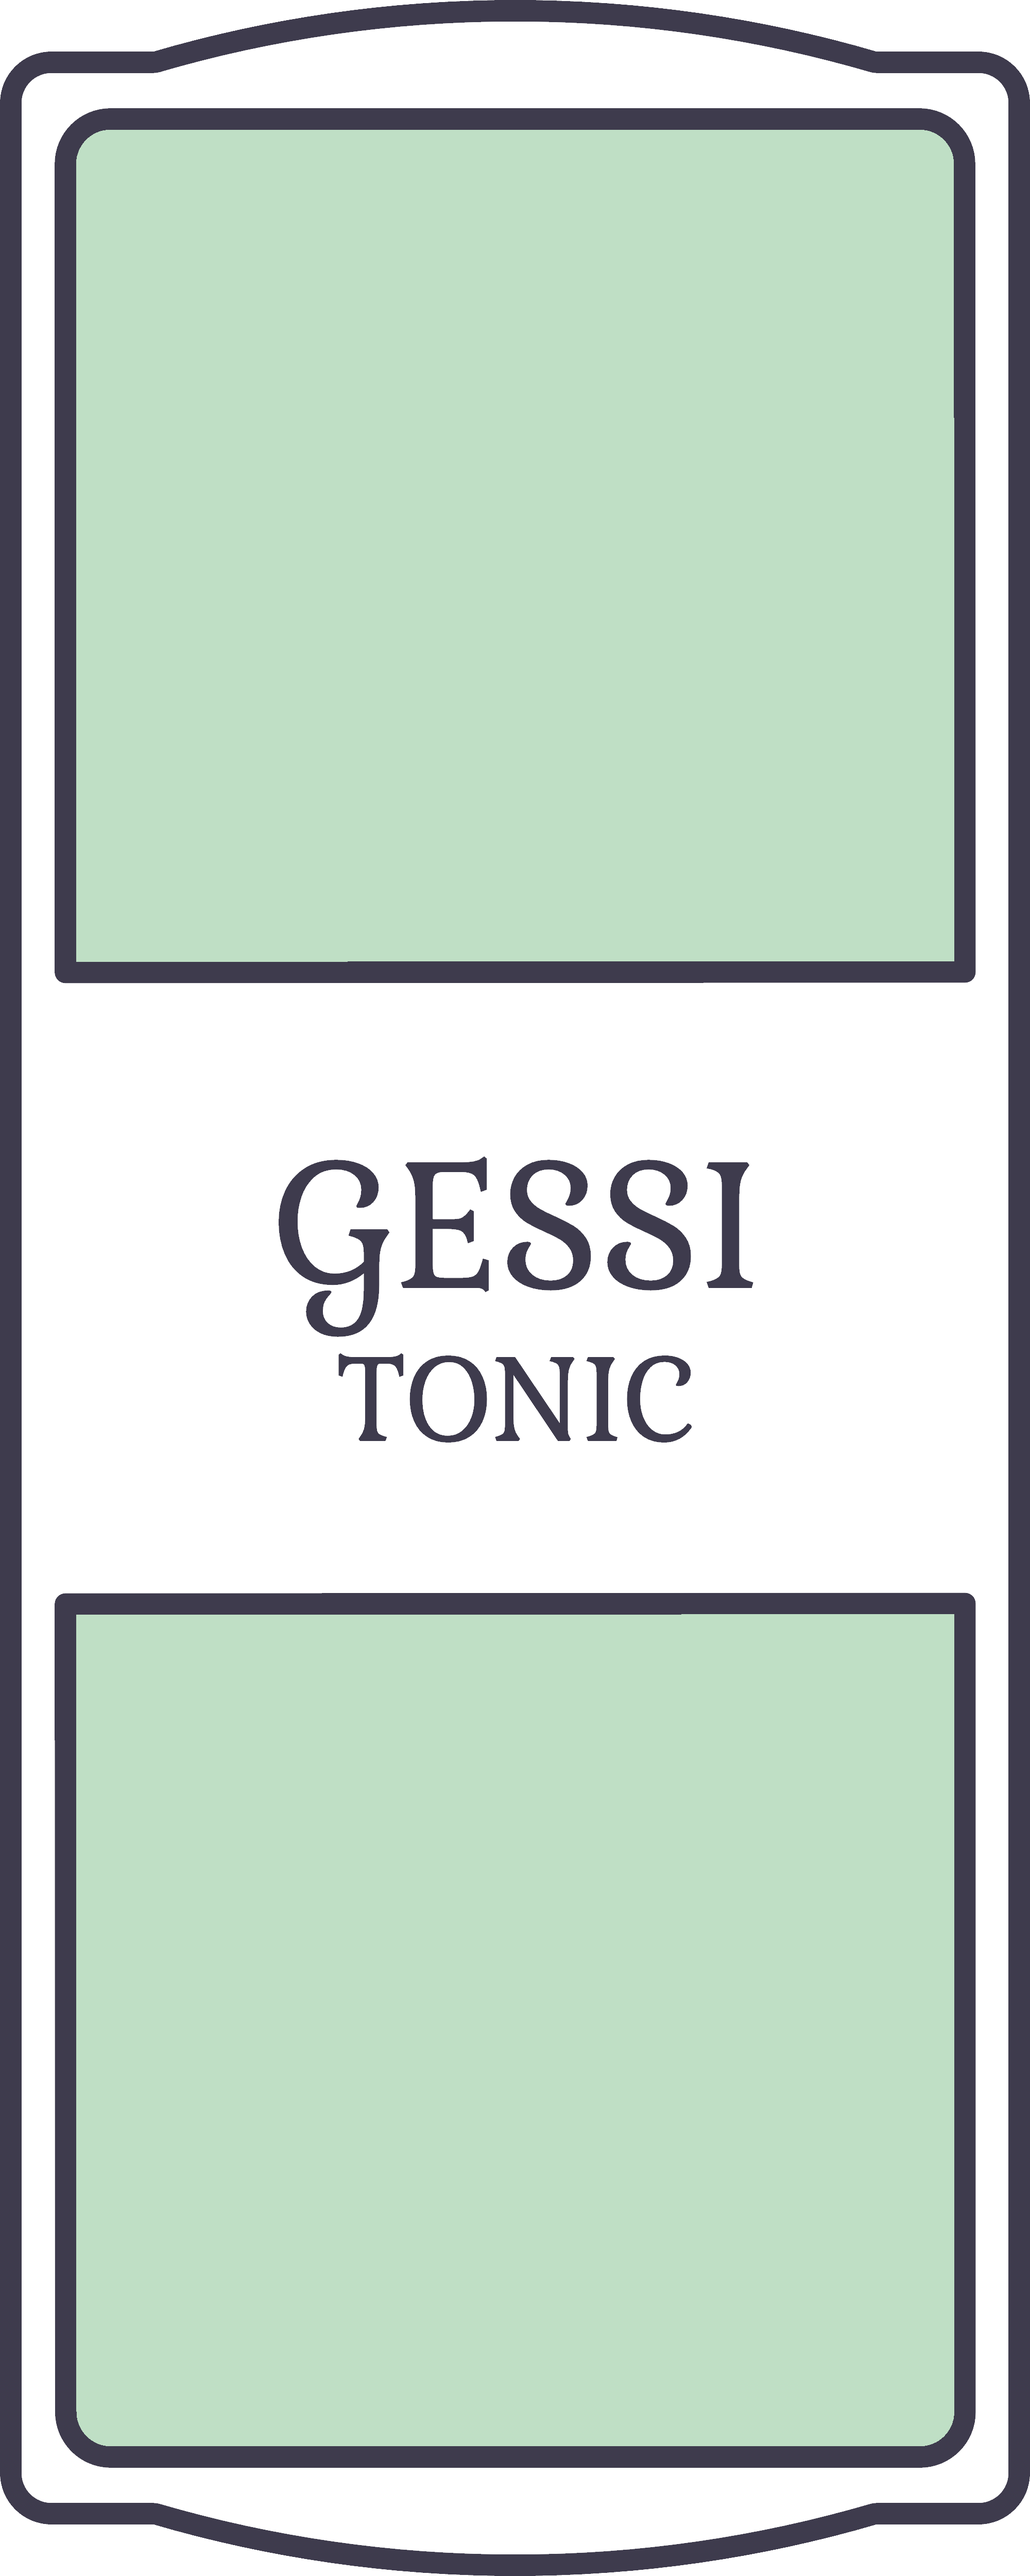
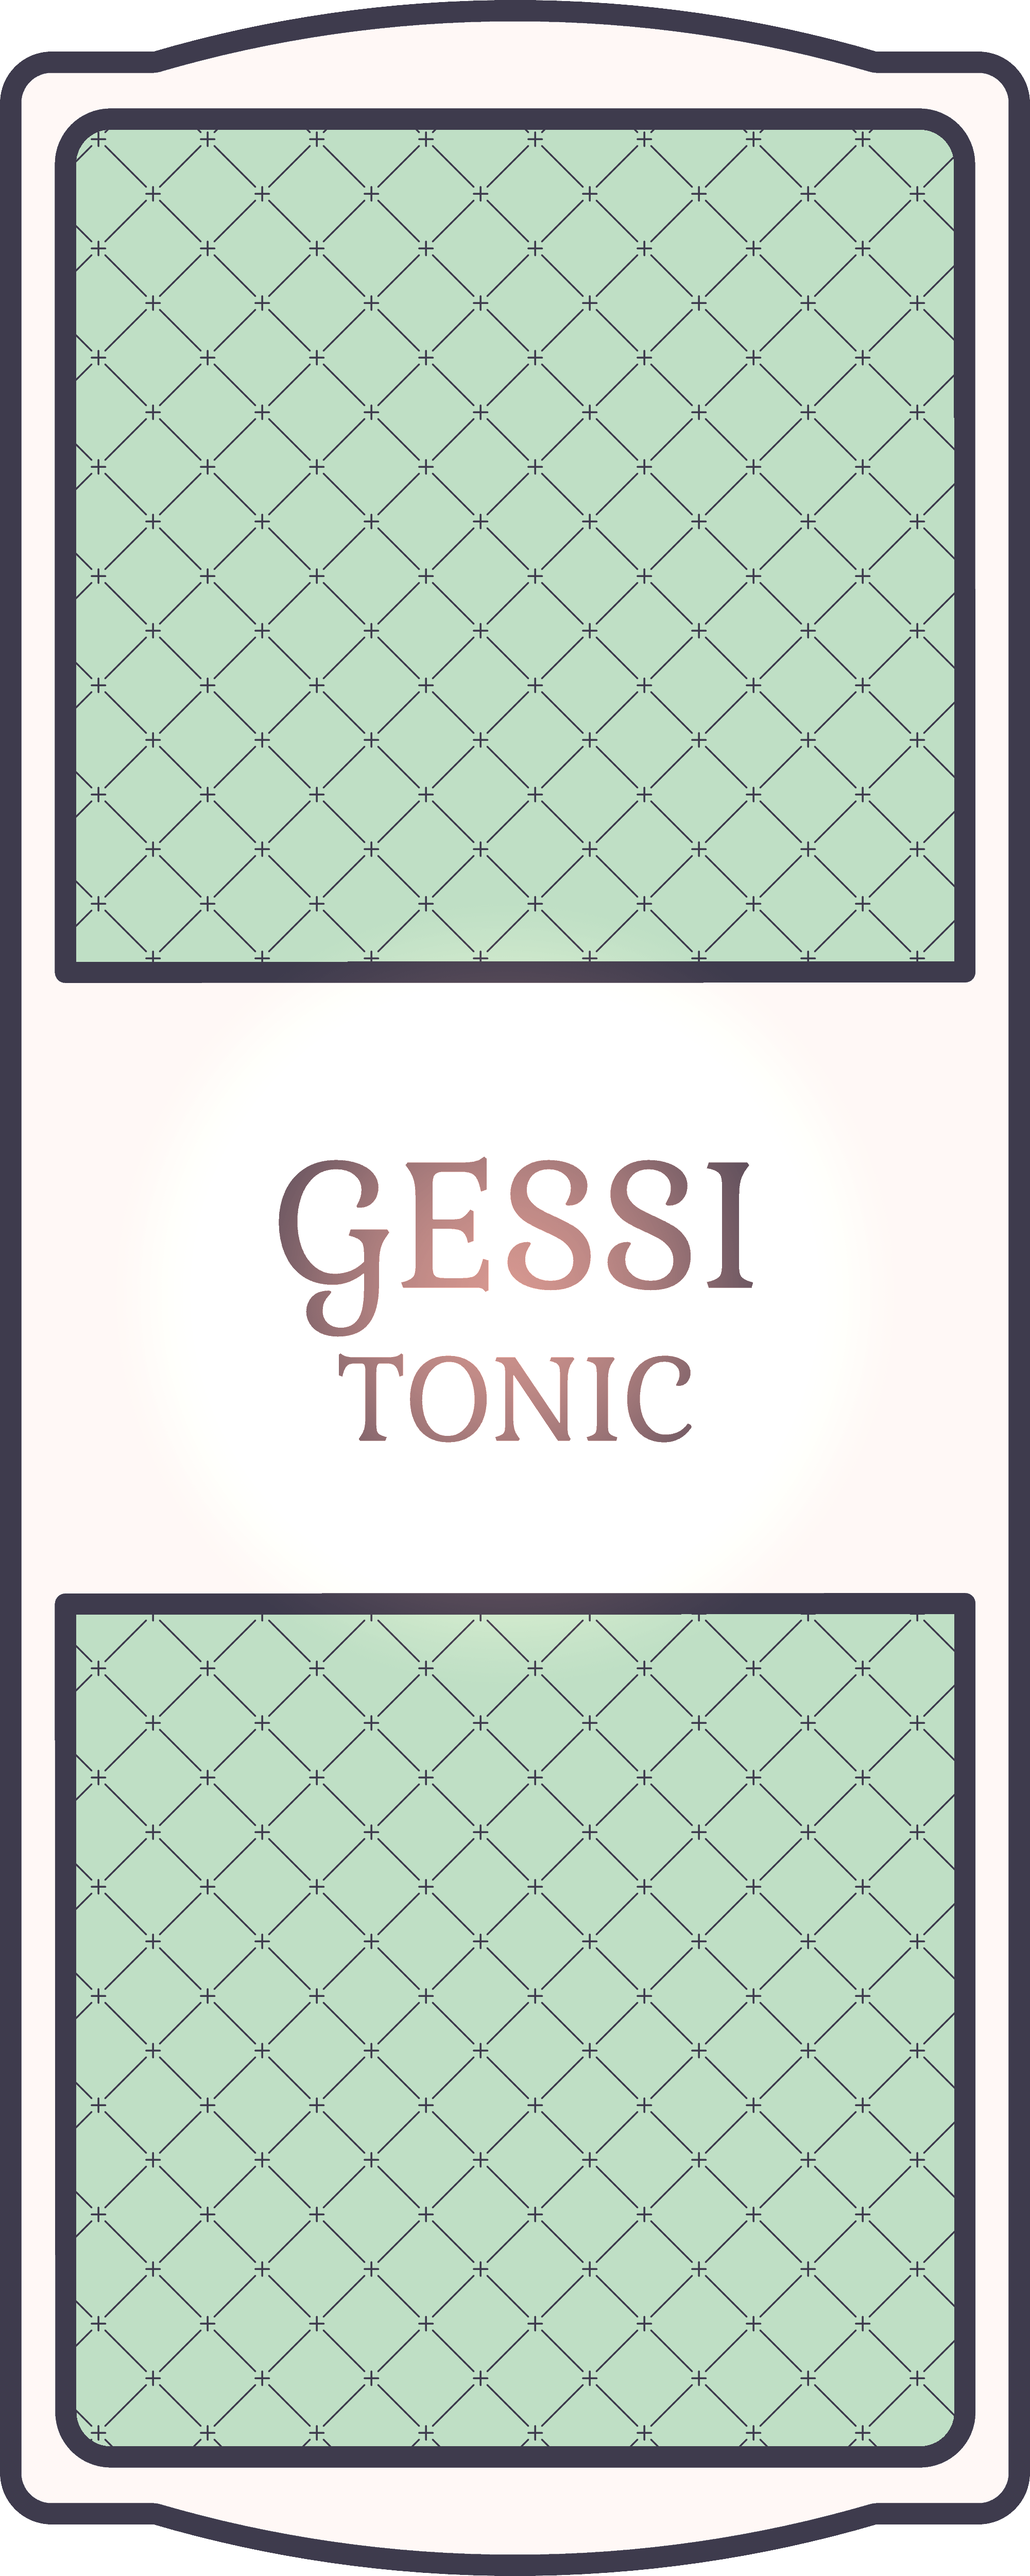
added artwork to home page and recipe page

Changed region(s): [[0.248, 0.4368, 0.744, 0.5616]]

diff --git a/static/style.css b/static/style.css
@@ -5,14 +5,14 @@
     box-sizing: border-box;
 }
 
-.grey_font, nav>a {
+.grey_font {
     color: #6E6C77;
 }
-.black_font {
+.black_font, nav>a {
     color: #3E3B4D;
 }
 .theme_font {
-    color:#d36e8c;
+    color:#C17387;
 }
 
 h3 {
@@ -43,9 +43,9 @@ h3 {
     top: 2vh;
     z-index: 99;
     font-size: 3vh;
-    border: solid #6E6C77 1px;
+    border: solid #3E3B4D 2px;
     border-radius: 3px;
-    background-color: #ffffff;
+    background-color: #FEF8F6;
 }
 .logo > a {
     text-decoration: none;
@@ -98,7 +98,7 @@ nav>a:hover {
 }
 
 i {
-    color: #6E6C77;
+    color: #3E3B4D;
 }
 i:hover {
     color: #ffffff;
@@ -193,10 +193,11 @@ input[type=email], input[type=name], textarea[type=text], input[type=submit], .c
     box-sizing: border-box;
     border-width: 3px;
     border-radius: 10px;
+    background-color: #FEF8F6;
 }
 
 input[type=submit]:hover {
-    background-color: #d36e8c;
+    background-color: #C17387;
     text-decoration: underline;
     color: #ffffff;
 }
@@ -208,6 +209,17 @@ textarea[type=text] {
 label {
     padding: 5px;
     display: table;
+}
+
+.fit_image {
+    background-image: url("../static/images/elderflower_host.png");
+    background-position: center;
+    background-size: 100%;
+}
+
+body {
+    background-image: url("../static/images/wallpaper.png");
+    background-attachment: fixed;
 }
 
 @media screen and (max-width: 768px) {
@@ -267,6 +279,14 @@ label {
             width: 100%;
             margin-left: auto;
             margin-right: auto;
+        }
+        .main_border {
+            margin-left: auto;
+            margin-right: auto;
+            width: 100%;
+            height: 100%;
+            border: solid #3E3B4D 1px;
+            background-color: #E7E0E3;
         }
     }
 
@@ -328,6 +348,14 @@ label {
             margin-left: auto;
             margin-right: auto;
         }
+        .main_border {
+            margin-left: auto;
+            margin-right: auto;
+            width: 100%;
+            height: 100%;
+            border: solid #3E3B4D 1px;
+            background-color: #E7E0E3;
+        }
     } 
 
 @media screen and (min-width: 1024px) {
@@ -381,7 +409,8 @@ label {
         margin-right: auto;
         width: 800px;
         height: 100%;
-        border: solid black 1px;
+        border: solid #3E3B4D 3px;
+        background-color: #E7E0E3;
     }
 }
 
@@ -439,6 +468,7 @@ label {
         margin-right: auto;
         width: 1200px;
         height: 100%;
-        border: solid black 1px;
+        border: solid #3E3B4D 3px;
+        background-color: #E7E0E3;
     }
 }

diff --git a/index.html b/index.html
@@ -12,11 +12,11 @@
 <body>
     <div class="main_border">
     <header class="logo">
-        <a href="../elderflower_and_gin/index.html" class="grey_font">
+        <a href="../elderflower_and_gin/index.html" class="black_font">
             EnG
         </a>
     </header>
-    <h1 class="welcome_sign">
+    <h1 class="welcome_sign fit_image">
         Welcome to<br>Elderflower and Gin
     </h1>
     <div>
